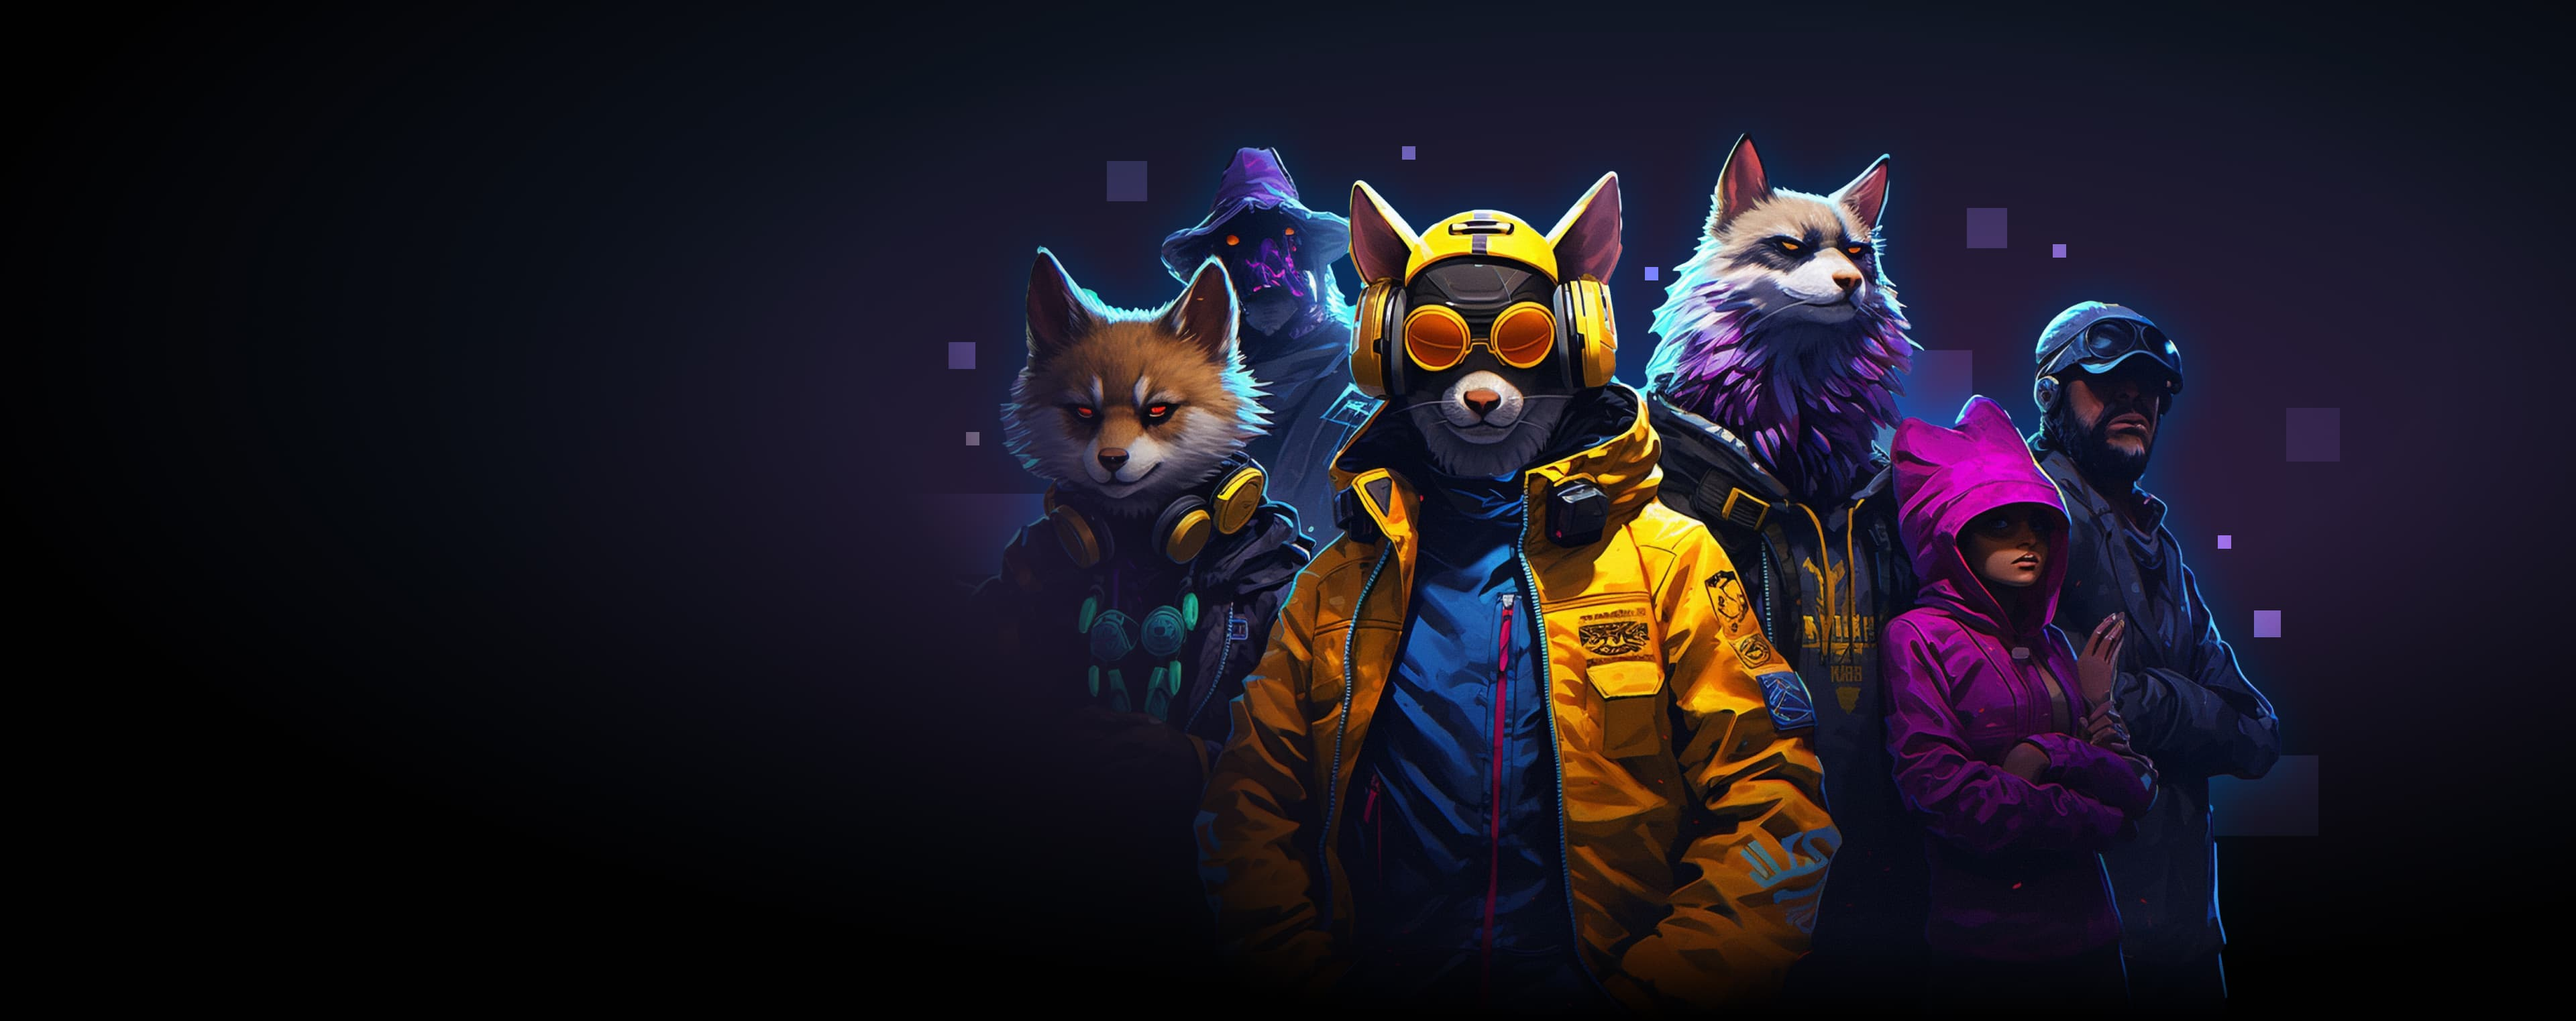
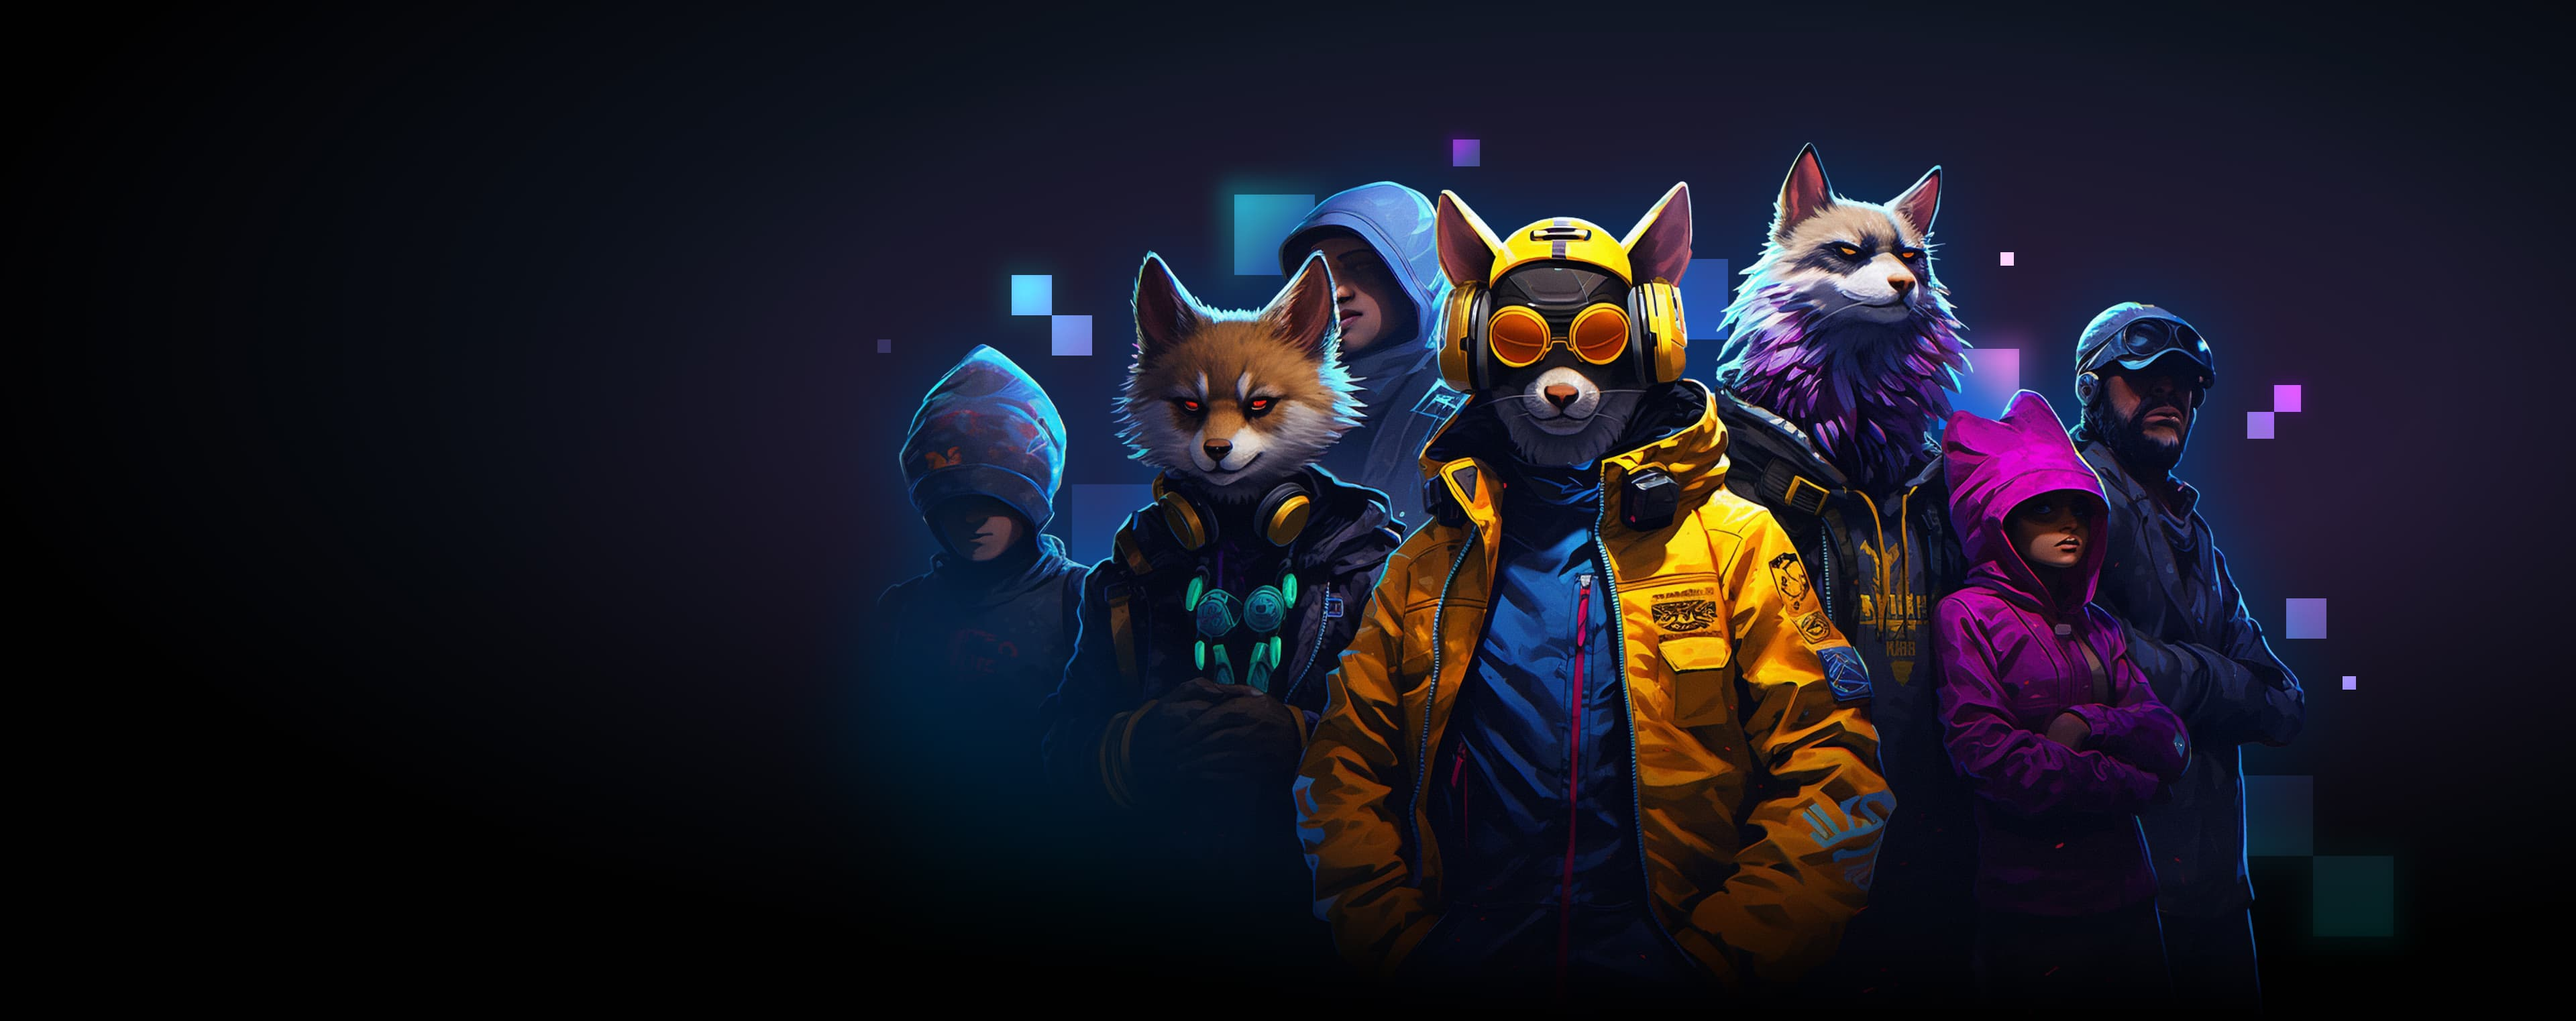
feat: update home page design

Changed region(s): [[0.3438, 0.1235, 0.9375, 0.9573]]

diff --git a/src/components/pages/home/events/events.jsx b/src/components/pages/home/events/events.jsx
@@ -4,8 +4,7 @@ import clsx from 'clsx';
 import SignUpButton from 'components/shared/sign-up-button';
 import CalendarIcon from 'svgs/calendar.inline.svg';
 
-const title = 'Welcome to <br/> Hacksquad 2023';
-
+const title = 'Welcome to Hacksquad';
 const eventsHeader = ['Date', 'Event', 'Company', 'RSVP'];
 const events = [
   {
@@ -67,47 +66,44 @@ const events = [
 ];
 
 const tableGridClass =
-  'grid gap-x-5 grid-cols-[230px_575px_200px_1fr] lg:grid-cols-[130px_390px_1fr_1fr] md:grid-cols-[130px_485px_230px_1fr]';
+  'grid gap-x-5 grid-cols-[230px_575px_200px_1fr] lg:grid-cols-[130px_390px_1fr_1fr] md:grid-cols-[130px_480px_200px_1fr]';
 
 const Events = () => (
-  <section className="safe-paddings relative py-14 md:py-20 sm:py-16 xs:py-12" id="events">
-    <div className="container">
+  <section className="safe-paddings relative py-20 md:py-20 sm:py-16 xs:py-12" id="events">
+    <div className="container text-center">
       <h2
-        className="max-w-3xl bg-white bg-gradient-title bg-clip-text pb-5 font-titles text-60 font-semibold leading-1.125 text-transparent lg:text-42 md:text-36 xs:max-w-[246px]"
+        className="mx-auto max-w-3xl font-titles text-60 font-semibold leading-1.125 lg:text-42 md:text-36 xs:max-w-[246px]"
         dangerouslySetInnerHTML={{ __html: title }}
       />
-      <div className="flex items-end justify-between lg:gap-x-20 sm:flex-col sm:items-start sm:gap-y-10">
-        <p className="max-w-3xl text-20 leading-normal text-grey-1 md:text-18">
-          With the fantastic atmosphere of Hacktoberfest, we have decided to create Hacksquad.
-          Hacksquad is here to enhance your Swag, meet with more community members and participate
-          in workshops from our great sponsors.
-        </p>
-        <SignUpButton className="mb-2 shrink-0" size="md" />
-      </div>
+      <p className="mx-auto mt-5 max-w-[800px] text-20 leading-normal text-grey-1 md:text-18">
+        With the fantastic atmosphere of Hacktoberfest, we have decided to create Hacksquad.
+        Hacksquad is here to enhance your Swag, meet with more community members and participate in
+        workshops from our great sponsors.
+      </p>
     </div>
 
-    <div className="container mt-[70px] md:mt-16 md:px-0 sm:mt-10">
+    <div className="container mt-[73px] md:mt-16 md:px-0 sm:mt-10">
       {/* TODO: Remove this block completely after the publication of events  */}
-      <div className="mx-auto max-w-[1220px]">
-        <div className="container">
-          <div className={clsx('border-b border-white border-opacity-20 pb-4', tableGridClass)}>
-            {eventsHeader.map((event, index) => (
-              <span className="font-medium uppercase" key={index}>
-                {event}
-              </span>
-            ))}
-          </div>
+      {/* <div className="mx-auto max-w-[1220px]"> */}
+      {/*   <div className="container"> */}
+      {/*     <div className={clsx('border-b border-white border-opacity-20 pb-4', tableGridClass)}> */}
+      {/*       {eventsHeader.map((event, index) => ( */}
+      {/*         <span className="font-medium uppercase" key={index}> */}
+      {/*           {event} */}
+      {/*         </span> */}
+      {/*       ))} */}
+      {/*     </div> */}
 
-          <span className="coming-soon-animation block border-b border-white border-opacity-20 py-4 text-center">
-            Coming soon <span>.</span>
-            <span>.</span>
-            <span>.</span>
-          </span>
-        </div>
-      </div>
+      {/*     <span className="coming-soon-animation block border-b border-white border-opacity-20 py-4 text-center"> */}
+      {/*       Coming soon <span>.</span> */}
+      {/*       <span>.</span> */}
+      {/*       <span>.</span> */}
+      {/*     </span> */}
+      {/*   </div> */}
+      {/* </div> */}
 
       {/* TODO: Display this block after events are published */}
-      {/* <div className="md:scrollbar-hidden mx-auto max-w-[1220px] md:max-w-none md:overflow-x-auto">
+      <div className="md:scrollbar-hidden mx-auto max-w-[1220px] md:max-w-none md:overflow-x-auto">
         <div className="md:min-w-[1080px] sm:px-4">
           <div className={clsx('border-b border-white border-opacity-20 pb-4', tableGridClass)}>
             {eventsHeader.map((event, index) => (
@@ -141,7 +137,11 @@ const Events = () => (
             ))}
           </ul>
         </div>
-      </div> */}
+      </div>
+    </div>
+
+    <div className="container text-center">
+      <SignUpButton className="mt-16" size="md" />
     </div>
   </section>
 );

diff --git a/src/components/pages/home/twitter-timeline/twitter-timeline.jsx b/src/components/pages/home/twitter-timeline/twitter-timeline.jsx
@@ -201,7 +201,7 @@ const list = [
 ];
 
 const TwitterTimeline = () => (
-  <section className="safe-paddings relative py-36 md:py-20 sm:py-16 xs:py-12">
+  <section className="safe-paddings relative py-32 md:py-20 sm:py-16 xs:py-12">
     <div className="container text-center">
       <h2 className="mx-auto max-w-3xl font-titles text-60 font-semibold leading-1.125 lg:text-42 md:text-36 xs:max-w-[246px]">
         Join the party
@@ -218,7 +218,7 @@ const TwitterTimeline = () => (
         <ArrowUp aria-hidden />
       </Link>
     </div>
-    <div className="container mt-[70px] md:mt-16 md:px-0 sm:mt-10">
+    <div className="container mt-[74px] md:mt-16 sm:mt-10">
       <ul className="columns-4 gap-x-8 space-y-8 lg:columns-3 sm:columns-2 sm:gap-x-4 sm:space-y-4">
         {list.map(
           ({ twitterPhoto, twitterName, twitterAccountName, twitterUrl, text, photo }, index) => (
@@ -240,7 +240,7 @@ const TwitterTimeline = () => (
                     width={36}
                     height={36}
                   />
-                  <div className="flex flex-col gap-y-1 text-14 leading-1.125">
+                  <div className="flex flex-col gap-y-1 text-14 leading-1.125 sm:break-all">
                     <h3 className="font-medium">{twitterName}</h3>
                     <p className="opacity-40">@{twitterAccountName}</p>
                   </div>

diff --git a/src/components/pages/home/hero/hero.jsx b/src/components/pages/home/hero/hero.jsx
@@ -6,10 +6,12 @@ import heroImage from './images/home-hero.jpg';
 import Sponsors from './sponsors';
 
 const Hero = () => (
-  <section className="safe-paddings overflow-hidden pb-28 pt-[200px] sm:py-20">
-    <div className="container relative z-20 sm:text-center">
+  <section className="safe-paddings overflow-hidden">
+    {/*  pb-28 pt-72 sm:py-20  */}
+    <div className="container relative z-20 mt-[310px] sm:text-center">
       <h1 className="max-w-2xl bg-white bg-home-hero-title bg-clip-text pb-6 font-titles text-114 font-semibold leading-none text-transparent lg:text-92 md:text-60 xs:max-w-[246px] xs:text-42">
-        2023 <br /> Hacksquad
+        <span className="block text-80 leading-[60px]">2023</span>
+        Hacksquad
       </h1>
       <p className="max-w-lg text-20 leading-normal md:text-18 sm:mx-auto">
         Contribute code, meet community members, participate in workshops, and win more SWAG.

diff --git a/tailwind.config.js b/tailwind.config.js
@@ -22,6 +22,7 @@ module.exports = {
       36: '36px',
       42: '42px',
       60: '60px',
+      80: '80px',
       92: '92px',
       114: '114px',
     },
@@ -55,10 +56,8 @@ module.exports = {
     },
     extend: {
       backgroundImage: {
-        'home-hero-title':
-          'linear-gradient(19deg, rgba(82, 0, 255, 0) 15.14%, rgba(82, 0, 255, 0.2) 63.6%);',
-        'gradient-title':
-          'linear-gradient(101.58deg, rgba(82, 0, 255, 0) 15.14%, rgba(82, 0, 255, 0.2) 63.6%);',
+        'home-hero-title': 'radial-gradient(rgba(82, 0, 255, 0) 0%, rgba(82, 0, 255, 0.2) 80%);',
+        'cta-blur': 'linear-gradient(180deg, rgba(255, 234, 0, 0) 0%, #FFEA00 100%);',
       },
     },
   },

diff --git a/src/components/shared/sign-up-button/sign-up-button.jsx b/src/components/shared/sign-up-button/sign-up-button.jsx
@@ -13,7 +13,7 @@ const styles = {
     sm: 'gap-3 px-4 py-1.5 text-16 font-medium md:text-14 md:px-4.5',
     md: 'gap-4 px-5 py-2 text-18 font-bold md:text-16 md:px-6 sm:text-14',
   },
-  base: 'relative cta-btn-animation inline-flex max-w-full items-center justify-center leading-normal rounded-sm items-center justify-center bg-yellow text-black',
+  base: 'relative cta-btn-animation cta-backdrop inline-flex max-w-full items-center justify-center leading-normal rounded-sm items-center justify-center bg-yellow text-black',
 };
 
 const SignUpButton = ({ className: additionalClassName = null, size = 'sm' }) => {

diff --git a/src/components/pages/home/hero/sponsors/sponsors.jsx b/src/components/pages/home/hero/sponsors/sponsors.jsx
@@ -33,9 +33,8 @@ const logos = [
 ];
 
 const Sponsors = () => (
-  <div className="container mt-28 py-9">
-    <h2 className="text-center text-16 uppercase leading-normal text-grey-1">Sponsored by</h2>
-    <ul className="mt-8 flex flex-wrap justify-center gap-x-[116px] gap-y-10 md:gap-x-16 sm:gap-x-10">
+  <div className="container mt-28 py-10">
+    <ul className="flex flex-wrap justify-center gap-x-[111px] gap-y-10 md:gap-x-16 sm:gap-x-10">
       {logos.map((props, index) => (
         <li className="shrink-0" key={index}>
           <Image className="w-auto sm:h-9" priority {...props} />

diff --git a/src/styles/global.css b/src/styles/global.css
@@ -4,6 +4,15 @@
     -webkit-tap-highlight-color: transparent;
   }
 
+  .cta-backdrop {
+    @apply relative;
+
+    &:after {
+      content: '';
+      @apply absolute h-[120%] w-[110%] rounded-sm bg-cta-blur opacity-50 blur-[30px];
+    }
+  }
+
   .text-with-link {
     a {
       @apply text-purple transition-colors duration-200;

diff --git a/src/components/shared/header/header.jsx b/src/components/shared/header/header.jsx
@@ -35,7 +35,7 @@ const Header = () => {
                 </li>
               ))}
             </ul>
-            <Button className="" to="#" theme="fill">
+            <Button className="" to="#" theme="outline">
               Join now
               <ArrowUp width={12} height={12} aria-hidden />
             </Button>
